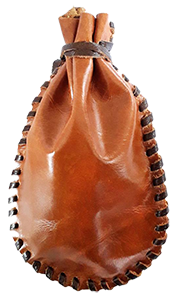
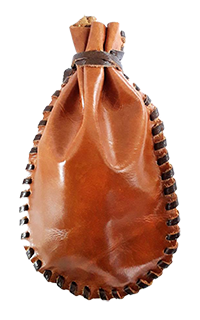
Give pouch an outline to telegraph its click-ability.

diff --git a/scenes/Numbers-Lego.js b/scenes/Numbers-Lego.js
@@ -5,11 +5,13 @@ import { NUMBERS_LEGO } from '../constants/scenes';
 var bricks = [];
 var rects = [];
 var emitters = [];
-var pouch_closed;
 var pouch_open;
+
 const LEGO_GRID = 29;
 const SMALL_POUCH_X = 1000;
 const SMALL_POUCH_Y = 700;
+const SMALL_POUCH_W = 40;
+const SMALL_POUCH_H = 64;
 const KEY_ZONE_X = 460;
 const KEY_ZONE_Y = 520;
 const POUCH_DEPTH = 10;
@@ -36,15 +38,36 @@ class Numbers_Lego extends BaseScene {
 
 		this.createRectangles();
 
-	    pouch_closed = this.add.image(SMALL_POUCH_X, SMALL_POUCH_Y, 'pouch_closed');
+	    let pouch_closed = this.add.image(SMALL_POUCH_X, SMALL_POUCH_Y, 'pouch_closed');
+	    let pouch_closed_outlined = this.add.image(SMALL_POUCH_X, SMALL_POUCH_Y, 'pouch_closed_outlined');
 	    pouch_closed.scale = .2;
-	    pouch_closed.alpha = .2;
-	    pouch_closed.setInteractive({ useHandCursor: true })
-	    	.on('pointerover', () => { pouch_closed.alpha = 1; })
-	    	.on('pointerout', () => { pouch_closed.alpha = .2; })
+	    pouch_closed_outlined.scale = .2;
+	    pouch_closed.setVisible(true);
+	    pouch_closed_outlined.setVisible(false);
+
+	    let pouch_closed_zone = this.add.zone(SMALL_POUCH_X, SMALL_POUCH_Y, SMALL_POUCH_W, SMALL_POUCH_H)
+	    	.setInteractive({useHandCursor: true})
+	    	.on('pointerover', () => {
+	    		console.log("pointerover");
+	    		if (pouch_closed.visible) {
+		    		pouch_closed.setVisible(false);
+		    		pouch_closed_outlined.setVisible(true);
+		    	}
+	    	})
+	    	.on('pointerout', () => {
+	    		console.log("pointerout");
+	    		if (!pouch_closed.visible) {
+		    		pouch_closed.setVisible(true);
+		    		pouch_closed_outlined.setVisible(false);
+		    	}
+	    	})
 			.on('pointerup', pointer => {
 				if (pointer.getDistance() < DRAG_THRESHOLD) {
+					pouch_closed.destroy();
+					pouch_closed_outlined.destroy();
+
 					this.clickPouch()
+					pouch_closed_zone.destroy();
 				}
 			});
 
@@ -201,8 +224,6 @@ class Numbers_Lego extends BaseScene {
 	}
 
 	clickPouch() {
-		pouch_closed.destroy();
-	    
 	    pouch_open = this.add.image(SMALL_POUCH_X, SMALL_POUCH_Y, 'pouch_open');
 	    pouch_open.scale=0.1;
 

diff --git a/scenes/Init.js b/scenes/Init.js
@@ -17,6 +17,7 @@ class Init extends Scene {
         this.load.atlas('yellow-bricks', '../assets/sprites/yellow-bricks-spritesheet.png', '../assets/sprites/yellow-bricks-spritesheet.json');
         this.load.image('pouch_open', '../assets/pics/pouch_open.png')
         this.load.image('pouch_closed', '../assets/pics/pouch_closed_small.png')
+        this.load.image('pouch_closed_outlined', '../assets/pics/pouch_closed_small_outlined.png')
 
         // Particles
         this.load.image('spark', '../assets/particles/blue.png');
